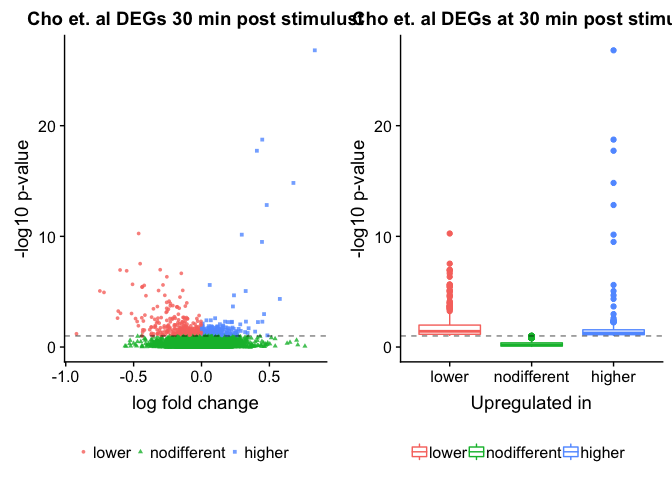
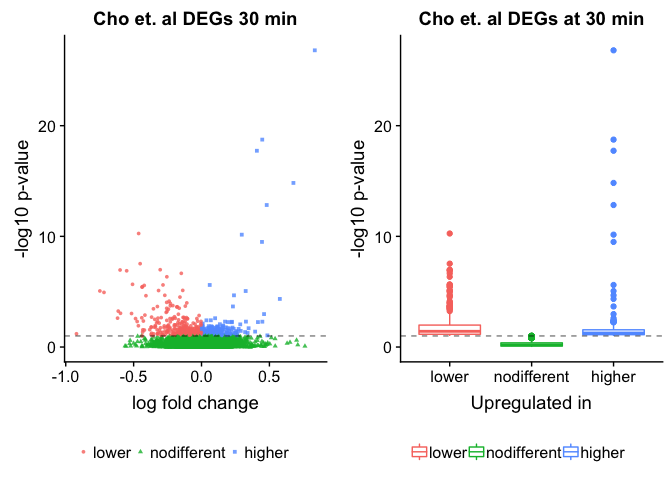
source data

Changed region(s): [[0.0312, 0.0, 1.0, 0.0625]]

diff --git a/scripts/08-genelists.md b/scripts/08-genelists.md
@@ -72,7 +72,7 @@ study compared to mine.
 
 ### Cho et al. data at 4 hours
 
-    S2 <- as.data.frame(readxl::read_excel("~/Downloads/aac7368-Cho.SM.Table.S2.xls", skip = 1 ))
+    S2 <- as.data.frame(readxl::read_excel("../data/aac7368-Cho.SM.Table.S2.xls", skip = 1 ))
 
     # the data for the 4 hour timepoint are in columns 10 and 14. ill rename them for easy
     names(S2)[10] <- "lfc"      
@@ -173,7 +173,7 @@ study compared to mine.
 ### Cho et al. data at 30 min
 
     # 30 min 
-    S2 <- as.data.frame(readxl::read_excel("~/Downloads/aac7368-Cho.SM.Table.S2.xls", skip = 1 ))
+    S2 <- as.data.frame(readxl::read_excel("../data/aac7368-Cho.SM.Table.S2.xls", skip = 1 ))
     #names(S2)
 
     names(S2)[9] <- "lfc"      
@@ -199,9 +199,9 @@ study compared to mine.
     ##       lower nodifferent      higher 
     ##         338       10932         261
 
-    volcanoplot <- plotvolcano(data, data$lfc, data$log10p, plottitle = "Cho et. al DEGs 30 min post stimulust")
+    volcanoplot <- plotvolcano(data, data$lfc, data$log10p, plottitle = "Cho et. al DEGs 30 min")
 
-    myboxplot <- plotboxplot(df = data, data$log10p, data$direction, "Cho et. al DEGs at 30 min post stimulust")
+    myboxplot <- plotboxplot(df = data, data$log10p, data$direction, "Cho et. al DEGs at 30 min")
 
     plot_grid(volcanoplot, myboxplot)
 
